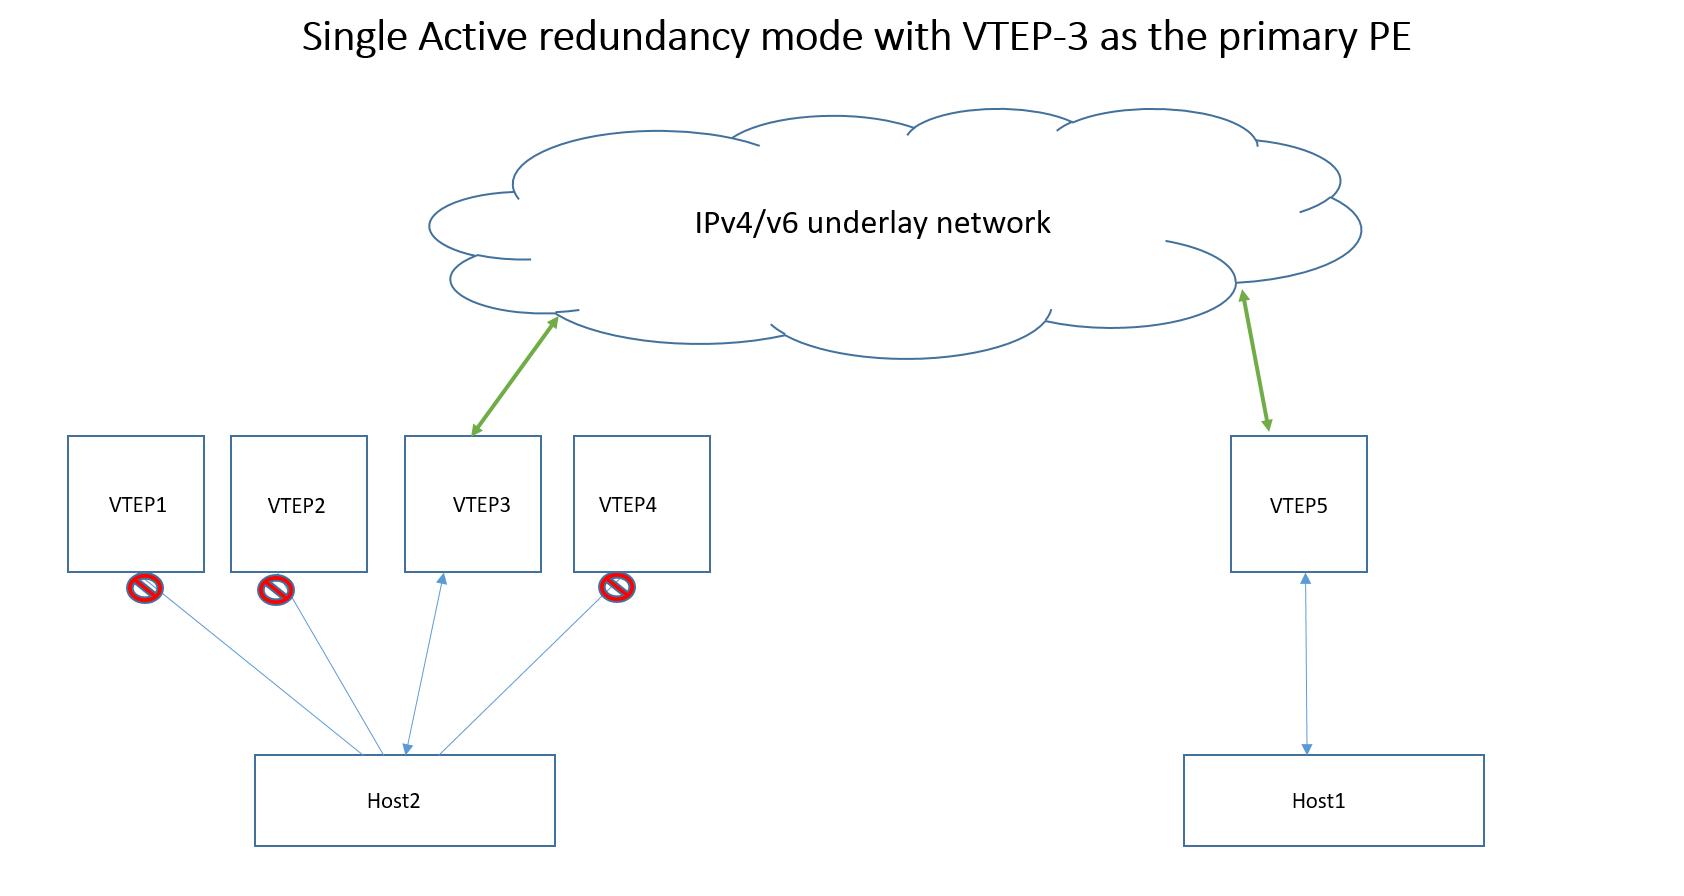
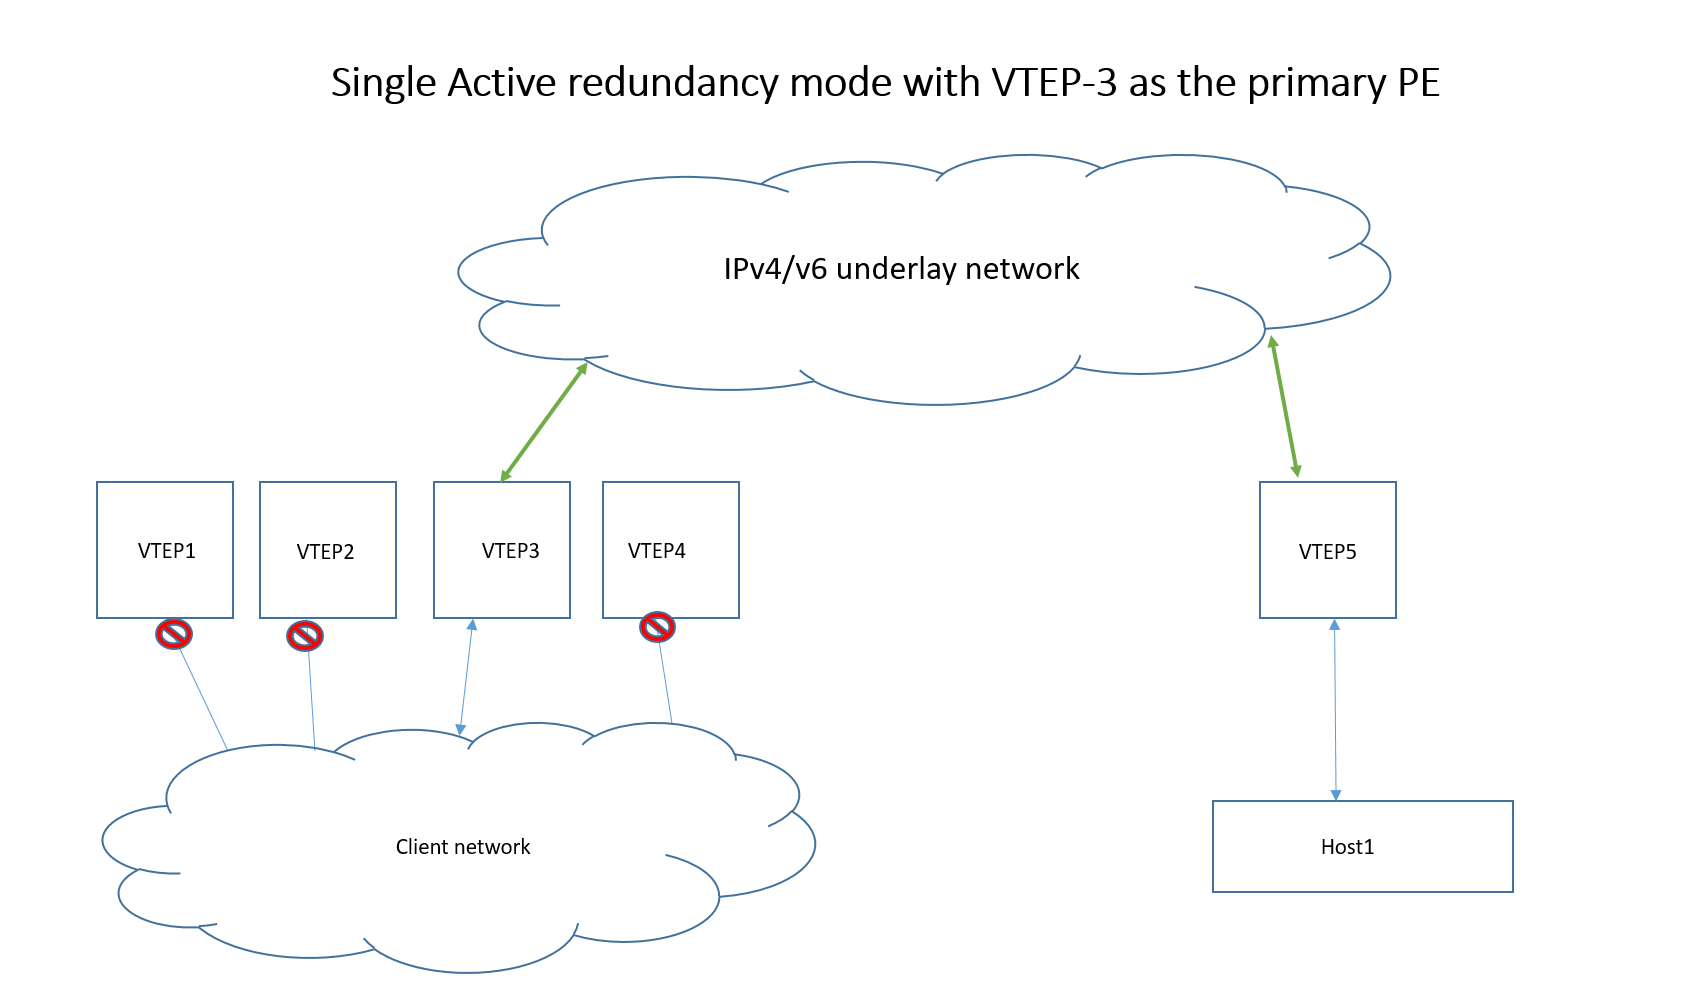
Updated EVPN MH workflow document.

diff --git a/doc/tunnel/SAI-Proposal-EVPN-Multihoming.md b/doc/tunnel/SAI-Proposal-EVPN-Multihoming.md
@@ -30,7 +30,8 @@
 
 | Rev  | Date       | Authors                                          | Change Description |
 | ---- | ---------  | ------------------------------------------------ | ------------------ |
-| 0.1  | Sep 23' 2024   | Jai Kumar, Rajesh Sankaran                       | Initial draft  |
+| 0.1  | Sep 23' 2024   | Jai Kumar, Rajesh Sankaran                   | Initial draft  |
+| 0.2  | Oct 23' 2024   | Rajesh Sankaran                              | Changed DF, single active attributes |
 
 
 # 1.0  Introduction
@@ -161,15 +162,15 @@ typedef enum _sai_bridge_port_attr_t
 ...
 
     /**
-     * @brief Indicates if the bridge port is set to drop the broadcast, unknown unicast and multicast traffic
+     * @brief Indicates if the bridge port is set to drop the Tunnel Terminated broadcast, unknown unicast and multicast traffic
      * When set to true, egress BUM traffic will be dropped
      *
      * @type bool
      * @flags CREATE_AND_SET
      * @default false
-     * @validonly SAI_BRIDGE_PORT_ATTR_TYPE == SAI_BRIDGE_PORT_TYPE_PORT
+     * @validonly SAI_BRIDGE_PORT_ATTR_TYPE == SAI_BRIDGE_PORT_TYPE_PORT or SAI_BRIDGE_PORT_ATTR_TYPE == SAI_BRIDGE_PORT_TYPE_SUB_PORT or SAI_BRIDGE_PORT_ATTR_TYPE == SAI_BRIDGE_PORT_TYPE_TUNNEL
      */
-    SAI_BRIDGE_PORT_ATTR_BUM_TX_DROP,
+    SAI_BRIDGE_PORT_ATTR_TUNNEL_TERM_BUM_TX_DROP,
 ```
 
 To handle DF election per VLAN and when a dot1q bridge model is used the above attribute is defined as part of the Vlan Member. 
@@ -180,7 +181,7 @@ typedef enum _sai_vlan_member_attr_t
 ...
 
     /**
-     * @brief Indicates if the bridge port is set to drop the broadcast, unknown unicast and multicast traffic
+     * @brief Indicates if the bridge port is set to drop the Tunnel terminated broadcast, unknown unicast and multicast traffic
      * When set to true, egress BUM traffic will be dropped
      *  
      * Valid only when the SAI_VLAN_MEMBER_ATTR_BRIDGE_PORT_ID is of type PORT.
@@ -190,7 +191,7 @@ typedef enum _sai_vlan_member_attr_t
      * @default false
      * 
      */
-    SAI_VLAN_MEMBER_ATTR_BUM_TX_DROP,
+    SAI_VLAN_MEMBER_ATTR_TUNNEL_TERM_BUM_TX_DROP,
 
 ```
 
@@ -244,51 +245,28 @@ The following 4 parameters should be set to true to achieve the traffic drop.
 typedef enum _sai_bridge_port_attr_t
 {
 ...
+
     /**
-     * @brief Indicates if the bridge port is set to drop the broadcast, unknown unicast and multicast traffic
-     * When set to true, ingress BUM traffic will be dropped
+     * @brief Indicates if the bridge port is set to drop the ingress traffic
+     * When set to true, all ingress traffic will be dropped
      *
      * @type bool
      * @flags CREATE_AND_SET
      * @default false
-     * @validonly SAI_BRIDGE_PORT_ATTR_TYPE == SAI_BRIDGE_PORT_TYPE_PORT
+     * @validonly SAI_BRIDGE_PORT_ATTR_TYPE == SAI_BRIDGE_PORT_TYPE_PORT or SAI_BRIDGE_PORT_ATTR_TYPE == SAI_BRIDGE_PORT_TYPE_SUB_PORT or SAI_BRIDGE_PORT_ATTR_TYPE == SAI_BRIDGE_PORT_TYPE_TUNNEL
      */
-    SAI_BRIDGE_PORT_ATTR_BUM_RX_DROP,
-
+    SAI_BRIDGE_PORT_ATTR_RX_DROP,
 
     /**
-     * @brief Indicates if the bridge port is set to drop the broadcast, unknown unicast and multicast traffic
-     * When set to true, egress BUM traffic will be dropped
+     * @brief Indicates if the bridge port is set to drop the egress traffic
+     * When set to true, all egress traffic will be dropped
      *
      * @type bool
      * @flags CREATE_AND_SET
      * @default false
-     * @validonly SAI_BRIDGE_PORT_ATTR_TYPE == SAI_BRIDGE_PORT_TYPE_PORT
+     * @validonly SAI_BRIDGE_PORT_ATTR_TYPE == SAI_BRIDGE_PORT_TYPE_PORT or SAI_BRIDGE_PORT_ATTR_TYPE == SAI_BRIDGE_PORT_TYPE_SUB_PORT or SAI_BRIDGE_PORT_ATTR_TYPE == SAI_BRIDGE_PORT_TYPE_TUNNEL
      */
-    SAI_BRIDGE_PORT_ATTR_BUM_TX_DROP,
-
-
-    /**
-     * @brief Indicates if the bridge port is set to drop the unicast traffic
-     * When set to true, ingress unicast traffic will be dropped
-     *
-     * @type bool
-     * @flags CREATE_AND_SET
-     * @default false
-     * @validonly SAI_BRIDGE_PORT_ATTR_TYPE == SAI_BRIDGE_PORT_TYPE_PORT
-     */
-    SAI_BRIDGE_PORT_ATTR_UCAST_RX_DROP,
-
-    /**
-     * @brief Indicates if the bridge port is set to drop the unicast traffic
-     * When set to true, egress unicast traffic will be dropped
-     *
-     * @type bool
-     * @flags CREATE_AND_SET
-     * @default false
-     * @validonly SAI_BRIDGE_PORT_ATTR_TYPE == SAI_BRIDGE_PORT_TYPE_PORT
-     */
-    SAI_BRIDGE_PORT_ATTR_UCAST_TX_DROP,
+    SAI_BRIDGE_PORT_ATTR_TX_DROP,
 ...
 }
 ```
@@ -300,9 +278,9 @@ typedef enum _sai_vlan_member_attr_t
 {
 ...
 
-    /**
-     * @brief Indicates if the bridge port is set to drop the broadcast, unknown unicast and multicast traffic
-     * When set to true, ingress BUM traffic will be dropped
+   /**
+     * @brief Indicates if all ingress traffic for this vlan member will be dropped.
+     * When set to true, ingress traffic will be dropped
      *  
      * Valid only when the SAI_VLAN_MEMBER_ATTR_BRIDGE_PORT_ID is of type PORT.
      * 
@@ -311,36 +289,10 @@ typedef enum _sai_vlan_member_attr_t
      * @default false
      * 
      */
-    SAI_VLAN_MEMBER_ATTR_BUM_RX_DROP,
+    SAI_VLAN_MEMBER_ATTR_RX_DROP,
 
    /**
-     * @brief Indicates if the bridge port is set to drop the broadcast, unknown unicast and multicast traffic
-     * When set to true, egress BUM traffic will be dropped
-     *  
-     * Valid only when the SAI_VLAN_MEMBER_ATTR_BRIDGE_PORT_ID is of type PORT.
-     * 
-     * @type bool
-     * @flags CREATE_AND_SET
-     * @default false
-     * 
-     */
-    SAI_VLAN_MEMBER_ATTR_BUM_TX_DROP,
-
-   /**
-     * @brief Indicates if the vlan member is set to drop the known unicast traffic
-     * When set to true, ingress unicast traffic will be dropped
-     *  
-     * Valid only when the SAI_VLAN_MEMBER_ATTR_BRIDGE_PORT_ID is of type PORT.
-     * 
-     * @type bool
-     * @flags CREATE_AND_SET
-     * @default false
-     * 
-     */
-    SAI_VLAN_MEMBER_ATTR_UCAST_RX_DROP,
-
-   /**
-     * @brief Indicates if the vlan member is set to drop the known unicast traffic
+     * @brief Indicates if all egress traffic for this vlan member will be dropped.
      * When set to true, egress unicast traffic will be dropped
      *  
      * Valid only when the SAI_VLAN_MEMBER_ATTR_BRIDGE_PORT_ID is of type PORT.
@@ -350,7 +302,7 @@ typedef enum _sai_vlan_member_attr_t
      * @default false
      * 
      */
-    SAI_VLAN_MEMBER_ATTR_UCAST_TX_DROP,
+    SAI_VLAN_MEMBER_ATTR_TX_DROP,
 
 ```
 
@@ -595,8 +547,8 @@ __Figure 3: Designated Forwarder Flow__
 
 ```
     sai_attribute_t attr;
-    attr.id = SAI_BRIDGE_PORT_ATTR_BUM_TX_DROP;
-    attr.value.booldata  = true;
+    attr.id = SAI_BRIDGE_PORT_ATTR_TUNNEL_TERM_BUM_TX_DROP;
+    attr.value.booldata  = true; /* false for vtep3 and true for vtep 1,2,4 */
 
     status = sai_bridge_api->set_bridge_port_attribute(lag_bp_oid, &attr);
 
@@ -644,25 +596,13 @@ __Figure 5: Single Active Redundancy Flow__
 
 ```
     sai_attribute_t attr;
-    attr.id = SAI_BRIDGE_PORT_ATTR_BUM_TX_DROP;
-    attr.value.booldata  = true;
+    attr.id = SAI_BRIDGE_PORT_ATTR_TX_DROP;
+    attr.value.booldata  = true; /* false for vtep3 and true for vtep 1,2,4 */
 
     status = sai_bridge_api->set_bridge_port_attribute(lag_bp_oid, &attr);
 
     sai_attribute_t attr;
-    attr.id = SAI_BRIDGE_PORT_ATTR_BUM_RX_DROP;
-    attr.value.booldata  = true;
-
-    status = sai_bridge_api->set_bridge_port_attribute(lag_bp_oid, &attr);
-
-    sai_attribute_t attr;
-    attr.id = SAI_BRIDGE_PORT_ATTR_UCAST_TX_DROP;
-    attr.value.booldata  = true;
-
-    status = sai_bridge_api->set_bridge_port_attribute(lag_bp_oid, &attr);
-
-    sai_attribute_t attr;
-    attr.id = SAI_BRIDGE_PORT_ATTR_UCAST_RX_DROP;
+    attr.id = SAI_BRIDGE_PORT_ATTR_RX_DROP; /* false for vtep3 and true for vtep 1,2,4 */
     attr.value.booldata  = true;
 
     status = sai_bridge_api->set_bridge_port_attribute(lag_bp_oid, &attr);
